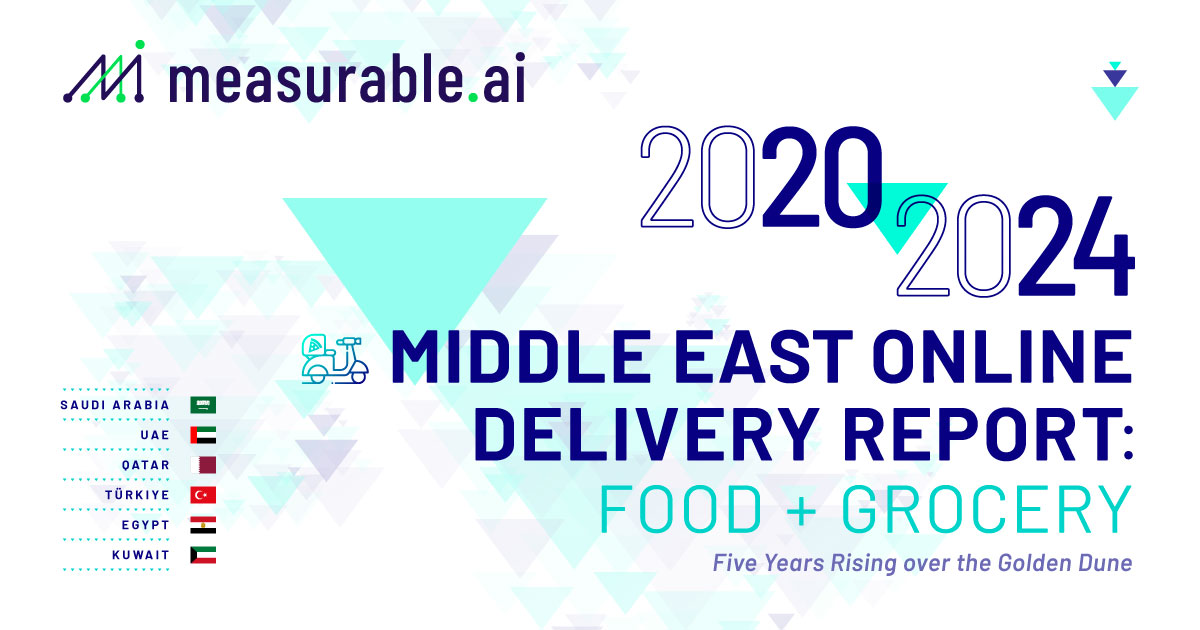
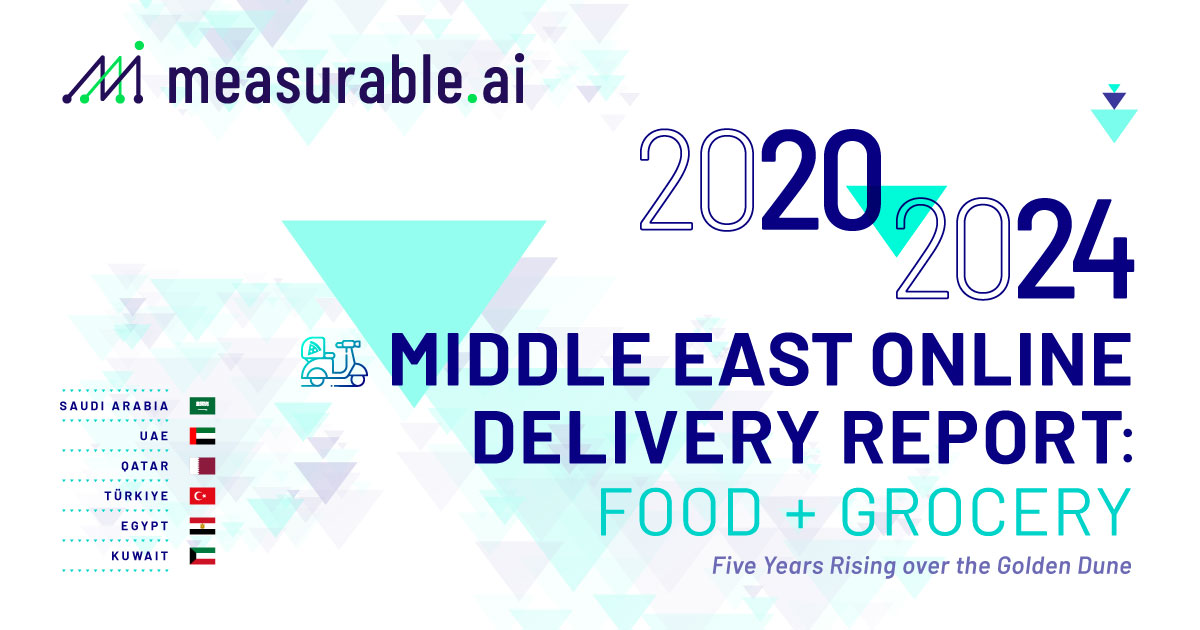
Update the og image

diff --git a/src/pages/middle-east-online-delivery-report.js b/src/pages/middle-east-online-delivery-report.js
@@ -75,11 +75,11 @@ const MiddleEastOnlineDeliveryReportPage = () => {
           },
           {
             property: "og:image:width",
-            content: "842",
+            content: "1200",
           },
           {
             property: "og:image:height",
-            content: "442",
+            content: "630",
           },
         ]}
       />
